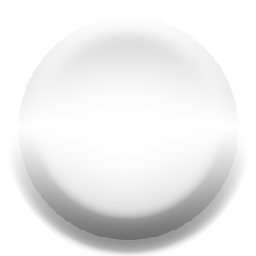
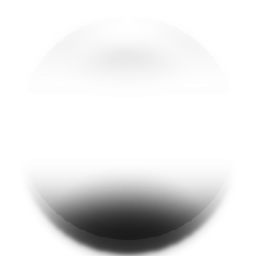
NOVEL-02 feat(canvas) - improved animation and added tween observable

diff --git a/src/app/ui/canvas/canvas.component.ts b/src/app/ui/canvas/canvas.component.ts
@@ -1,8 +1,8 @@
+import { animationFrame } from 'rxjs/scheduler/animationFrame';
+import { TweenObservable } from '../../observable/tween';
 import 'pixi.js';
 import { AfterViewInit, Component, ElementRef, HostListener } from '@angular/core';
 import { BulgePinchFilter } from '@pixi/filter-bulge-pinch';
-import { AnimationFrameScheduler } from 'rxjs/scheduler/AnimationFrameScheduler';
-import { IScheduler } from 'rxjs/Scheduler';
 import { Observable } from 'rxjs/Rx';
 
 @Component({
@@ -19,56 +19,28 @@ export class CanvasComponent implements AfterViewInit {
 
 	private bulgeFilter: any;
 
-	private tween = null;
+	private tweenSubscription = null;
 
 	private easing = (delta: number) => Math.sin(delta * Math.PI);
 
-	@HostListener('document:mousemove', ['$event'])
-	onMouseMove(event: MouseEvent) {
-		this.light.position.x = event.x;
-		this.light.position.y = event.y;
-		this.bulgeFilter.center.x = event.x / window.innerWidth;
-		this.bulgeFilter.center.y = event.y / window.innerHeight;
-	}
-
-	@HostListener('document:mousedown', ['$event'])
-	onMouseDown(event: MouseEvent) {
-		const duration = 500;
-		const startTime = (new Date()).getTime();
-
-		const tween = (observer) => {
-			const delta = Math.min((new Date()).getTime() - startTime, duration);
-
-			observer.next(delta / duration);
-			this.onAnimationFrame();
-
-			if (delta < duration) {
-				requestAnimationFrame(() => tween(observer));
-			} else {
-
-				observer.finish();
-			}
-		};
-
-		if (this.tween !== null) {
-			this.tween.unsubscribe();
-		}
-		this.tween = Observable.create(tween).subscribe((v) => {
-			const d = this.easing(v);
-			this.bulgeFilter.strength = 0.5 + 0.5 * d;
-			this.bulgeFilter.radius = 128 - 64 * d;
-			this.light.scale.set(1 - 0.5 * d);
-		}, () => {
-
-		}, () => {
-
-		});
-	}
-
 	constructor(private host: ElementRef) {
-		Observable.fromEvent(document, 'mousemove').throttleTime(50).subscribe(() => {
-			// TODO: use AnimationFrameScheduler - cant setup AnimationFrameScheduler for some reason
-			requestAnimationFrame(this.onAnimationFrame);
+		Observable.fromEvent(document, 'mousedown')
+		.switchMap(() => TweenObservable.create(1000))// schedule to requestAnimationFrame
+		.map(this.easing)
+		.subscribe((v) => {
+			this.bulgeFilter.strength = 0.5 + 0.5 * v;
+			this.bulgeFilter.radius = 128 + 128 * v;
+			this.light.scale.set(1 + v);
+			this.onAnimationFrame();
+		});
+		Observable.fromEvent(document, 'mousemove').throttleTime(16)
+		.switchMap((ev) => Observable.of(ev, animationFrame))// schedule to requestAnimationFrame
+		.subscribe((event: MouseEvent) => {
+			this.light.position.x = event.x;
+			this.light.position.y = event.y;
+			this.bulgeFilter.center.x = event.x / window.innerWidth;
+			this.bulgeFilter.center.y = event.y / window.innerHeight;
+			this.onAnimationFrame();
 		});
 	}
 
@@ -88,33 +60,29 @@ export class CanvasComponent implements AfterViewInit {
 
 		this.host.nativeElement.appendChild(this.renderer.view);
 		this.stage = new PIXI.Container();
-
-		PIXI.utils.sayHello('canvas');
-		console.log('initPixi', this.renderer, this.stage);
 	}
 
 	initScene() {
 		const bg = PIXI.extras.TilingSprite.fromImage('assets/bg-00.png');
+		bg.x = -10;
+		bg.y = -10;
 		bg.width = window.innerWidth + 20;
 		bg.height = window.innerHeight + 20;
-		bg.x = -10;
 		this.stage.addChild(bg);
 
 		this.light = PIXI.Sprite.fromImage('assets/light-00.png');
-		this.light.blendMode = PIXI.BLEND_MODES.LIGHTEN;
-		this.light.alpha = 0.2;
+		this.light.blendMode = PIXI.BLEND_MODES.SOFT_LIGHT;
+		this.light.alpha = 0.125;
 		this.light.anchor.set(0.5);
-
 		this.stage.addChild(this.light);
 
-		// const displacmentFilter = new PIXI.filters.DisplacementFilter(this.light);
 		this.bulgeFilter = new BulgePinchFilter();
 		this.bulgeFilter.radius = 128;
 		this.bulgeFilter.strength = 1;
 
 		this.stage.filters = [this.bulgeFilter];
 
-		requestAnimationFrame(this.onAnimationFrame);
+		this.onAnimationFrame();
 	}
 
 	onAnimationFrame = () => {

diff --git a/src/app/observable/tween.ts b/src/app/observable/tween.ts
@@ -1,0 +1,48 @@
+import { animationFrame } from 'rxjs/scheduler/animationFrame';
+import { TeardownLogic } from 'rxjs/Subscription';
+import { IScheduler, Scheduler } from 'rxjs/Scheduler';
+import { Observable, Subscriber } from 'rxjs/Rx';
+
+/**
+ * Emits values between 0 and 1 over duration of time.
+ *
+ * @export
+ * @class TweenObservable
+ * @extends {Observable<number>}
+ */
+export class TweenObservable extends Observable<number> {
+	static create(duration: number, start: number = 0, end: number = 1) {
+		return new TweenObservable(duration).map((v) => start + (end - start) * v);
+	}
+
+	static dispatch(state: any) {
+		const { duration, startTime, subscriber } = state;
+
+		if (subscriber.closed) {
+			return;
+		}
+
+		const delta = Date.now() - startTime;
+
+		if (delta > duration) {
+			subscriber.complete();
+		}
+
+		subscriber.next(delta / duration);
+
+		(<any> this).schedule(state);
+	}
+
+	constructor(protected duration: number, private scheduler: IScheduler = animationFrame) {
+		super();
+
+	}
+
+	protected _subscribe(subscriber: Subscriber<number>): TeardownLogic {
+		return this.scheduler.schedule(TweenObservable.dispatch, 0, {
+			startTime: Date.now(),
+			duration: this.duration,
+			subscriber,
+		});
+	}
+}

diff --git a/src/app/app.component.html b/src/app/app.component.html
@@ -13,4 +13,4 @@
 	<router-outlet></router-outlet>
 </div>
 
-<xes-canvas [ngStyle]="{ position: 'fixed', left: 0, right: 0, top: 0, bottom: 0, 'z-index': -1 }"></xes-canvas>
+<xes-canvas [ngStyle]="{ position: 'fixed', left: 0, right: 0, top: 0, bottom: 0, 'z-index': -1, 'background': '#000 url(assets/bg-00.png) repeat -10px -10px' }"></xes-canvas>
